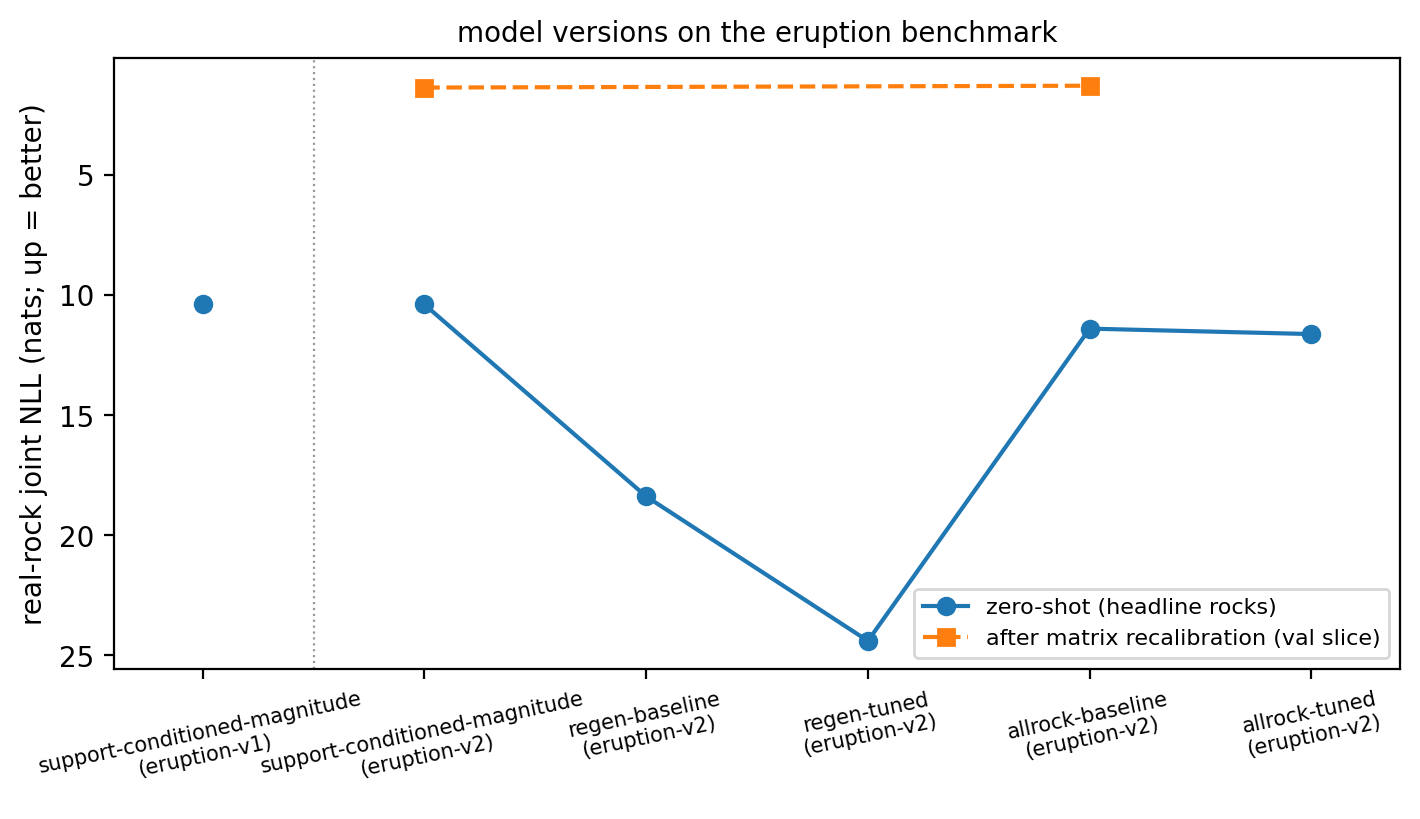
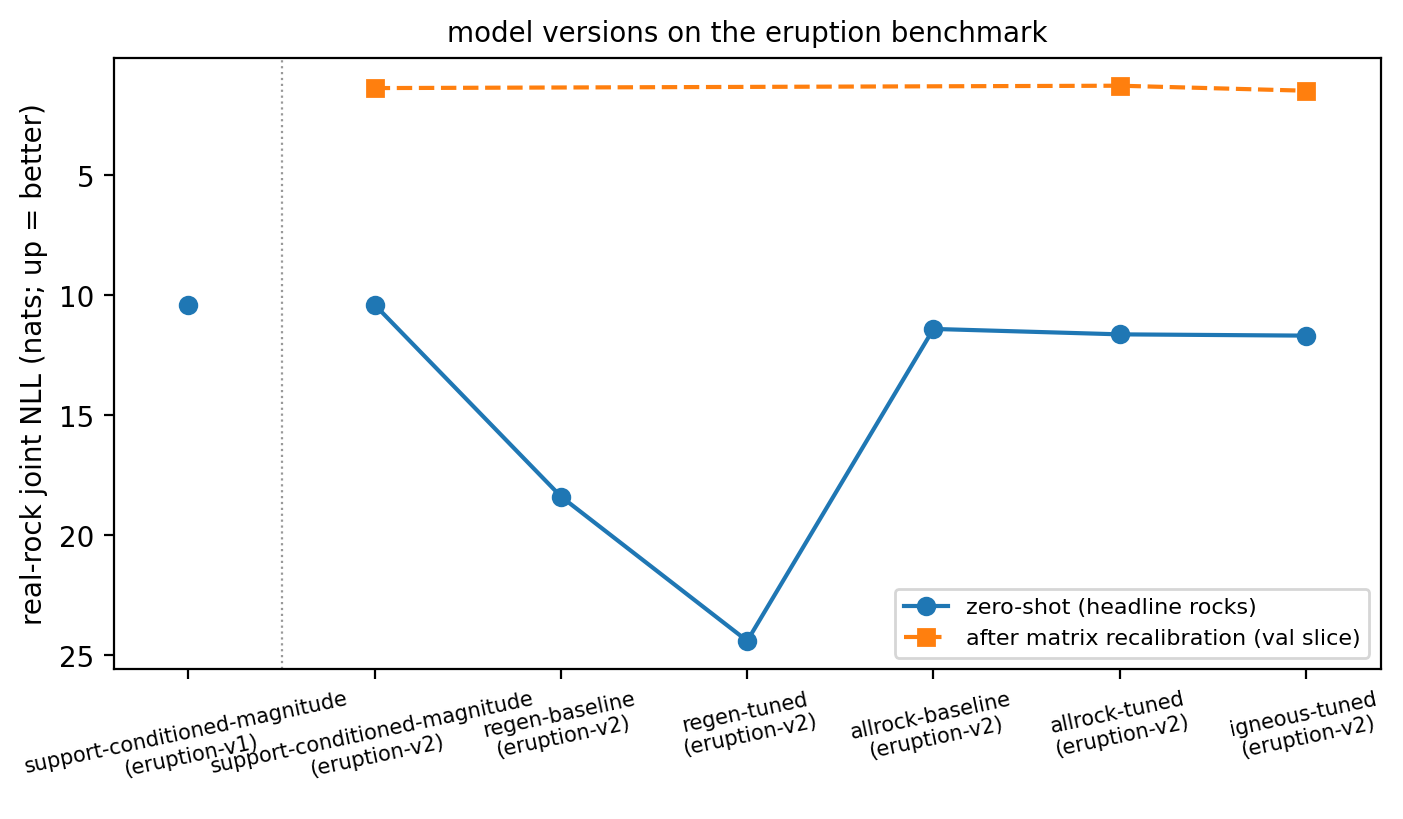
cascade-2 encoder verdict: tie leaning all-rock (-0.209 [-0.460, +0.090] recalibrated val) -- all-rock encoder adopted   canonical, joint_heads_allrock_tuned_seed0 PROMOTED TO PRODUCTION; igneous-tuned shipped as measured non-production arm (ledger entries   valtest128-broad + eruption-v2, trajector

diff --git a/docs/roadmap.md b/docs/roadmap.md
@@ -33,10 +33,12 @@ masked MSE** (ADR 007, adopted 2026-06-18); it measures higher on
 every probe and the trace-imputation gate than the original
 linear-space MSE, which is retired to reference.  Two encoder
 generations exist: `pretrain_v3_logmse_std_seed0` (igneous-only,
-22-token -- the one under the production heads) and the canonical
-accepted encoder `pretrain_allrock_redox_seed0` (all-rock, 23-token
-with the Fe-redox ratio; accepted ride-as-is 2026-07-28, scored in
-`docs/scorecard.md`).  Cascade 2 trains heads on the new one.
+22-token -- the previous canonical) and the canonical encoder
+`pretrain_allrock_redox_seed0` (all-rock, 23-token with the Fe-redox
+ratio; accepted ride-as-is 2026-07-28, adopted as canonical 2026-08-05
+on the cascade-2 tuned-vs-tuned encoder verdict; scored in
+`docs/scorecard.md`).  The production heads sit on the canonical
+encoder.
 
 Probe results on the 20-epoch igneous encoder
 (`scripts/eval/probe_encoder.py`, library-default probe HPs; probe
@@ -120,10 +122,10 @@ fine-tune with all heads end-to-end at a low encoder LR
 ablation against the Track-B frozen-encoder version. Ship whichever
 calibrates better.
 
-## Current status and next steps (2026-08-04)
+## Current status and next steps (2026-08-05)
 
 Full decision record in `docs/2026_08_03_recap.md`; journal entries
-2026-07-31 through 2026-08-04 hold the measurements.
+2026-07-31 through 2026-08-05 hold the measurements.
 
 **Cascade 1 (heads on the traced corpus) is complete and adjudicated
 against.** Both regen checkpoints (`joint_heads_regen_seed0`,
@@ -131,9 +133,11 @@ against.** Both regen checkpoints (`joint_heads_regen_seed0`,
 the old-corpus production model on the real-rock benchmark under
 identical recalibration (sealed test joint NLL 0.478 / 0.769 / 1.371;
 all pairwise unit-clustered contrasts exclude zero; few-shot curves
-show no crossover at any labelled budget). **Production remains
-`joint_heads_supportmag_seed0`**; the 2026-07-29 trial-22 adoption is
-reversed, and the regen checkpoints are measured non-production arms.
+show no crossover at any labelled budget). Production stayed
+`joint_heads_supportmag_seed0` through the cascades (the 2026-07-29
+trial-22 adoption is reversed; the regen checkpoints are measured
+non-production arms) until the cascade-2 verdict promoted
+`joint_heads_allrock_tuned_seed0` on 2026-08-05 (step 1 below).
 The traced corpus's real wins (quartz presence, assemblage ranking)
 and the sharpening lesson are the paper story, not a production
 upgrade. The real-rock **test slice is spent**; recalibrator work
@@ -142,18 +146,24 @@ landed and was accepted 2026-07-28 (`pretrain_allrock_redox_seed0`).
 
 Next, one change at a time, each judged on the real-rock benchmark:
 
-1. **Cascade 2 -- encoder swap on the old corpus.** All-rock arm
-   complete (journal 2026-08-03/04): the baseline at production dials
-   tied production on recalibrated val, and the corrected-criterion
-   sweep winner (`joint_heads_allrock_tuned_seed0`, effective lambda
-   0.59, ModeHead 512x3, picked by the sampled-support veto's first
-   live exercise) posted the best corpus numbers on both axes and
-   again ties on recalibrated val with the best point estimate -- no
-   measured transfer cost, win unproven at val power. The matched
-   igneous-encoder sweep (`joint_heads_igneous_hpo`) is running; its
-   winner retrains at 120 epochs and the paired val contrast renders
-   the encoder verdict at tuned best. The #53 fresh-head control
-   still decomposes encoder-vs-head contribution when scheduled.
+1. **Cascade 2 -- encoder swap on the old corpus. COMPLETE, verdict
+   rendered 2026-08-05.** All-rock arm (journal 2026-08-03/04): the
+   baseline at production dials tied production on recalibrated val,
+   and the corrected-criterion sweep winner
+   (`joint_heads_allrock_tuned_seed0`, effective lambda 0.59, ModeHead
+   512x3) posted the best corpus numbers on both axes and tied with
+   the best point estimate. The matched igneous sweep independently
+   picked near-identical dials (trial 43 -- effective lambda 0.609,
+   512x3); its 120-epoch retrain (`joint_heads_igneous_tuned_seed0`)
+   trails on both corpus axes and the paired recalibrated val contrast
+   leans all-rock without separating (-0.209 [-0.460, +0.090]). Per
+   the pre-registered rule the tie licenses adoption on independent
+   merits: **the all-rock encoder is canonical and
+   `joint_heads_allrock_tuned_seed0` is production** (journal
+   2026-08-05). #54 closed -- comp/cond mini-sweeps waived, superseded
+   by planned re-tunes that re-open the full search. The #53
+   fresh-head control still decomposes encoder-vs-head contribution
+   when scheduled.
 2. **ModeHead dirichlet layer (mixture)** -- VERDICT RENDERED 2026-08-04
    (journal, two entries): kept as a dial, K=1 stays the default.
    Trained K=2 wins the corpus on both axes and collapses the amp
@@ -170,8 +180,11 @@ Next, one change at a time, each judged on the real-rock benchmark:
    reality: SiO2 magnitude-side term and constant offsets needed
    regardless; heavy-tail extension un-mooted by the mixture verdict;
    gate-offset term only if K>1 is ever fielded.
-4. **#60 real-rock-axis corpus scaling** after cascade 2 -- decides
-   whether a larger broad-draw regen is generated.
+4. **#60 real-rock-axis corpus scaling** (now unblocked) -- decides
+   whether a larger broad-draw regen is generated. Prioritized over
+   #55 encoder re-HPO for the NeurIPS window: the corpus axis owns
+   every large measured real-rock effect, and the venue is the
+   simulator side; #55 stays open, parked past the deadline.
 5. **Paper progression**: the real-rock benchmark is the cross-era
    spine, plus a one-time table re-scoring archived era checkpoints
    on the final valtest instrument. Era production checkpoints

diff --git a/docs/journal.md b/docs/journal.md
@@ -5488,3 +5488,60 @@ offset term is a known cheap addition only if K>1 is ever fielded), then
 backing exhibit at explorations/archive/mode_mixture/ (born-archived: the
 question is settled here); the bimodality analysis doubles as #62's
 candidate-benchmark screening test, reusable for any phase.
+
+## 2026-08-05 -- Cascade-2 igneous arm complete: encoder verdict ties leaning all-rock; all-rock encoder canonical, allrock-tuned promoted to production
+
+**Q.** At tuned best on both encoders, does the old igneous encoder hold
+a real-rock edge that should block all-rock adoption?
+
+**Context.** The igneous twin sweep (`joint_heads_igneous_hpo`, matched
+budget/seed/criterion) resumed after the mixture pause and completed its
+48-trial ceiling on natural termination (~20 min/trial). The corrected
+criterion repeated its all-rock-arm behavior: TPE explored the
+lambda <= 1 interior, the 0.03 band held 12 trials, and the
+sampled-support band-veto dropped 11 -- including the raw Optuna best
+(mode -7.2480, sampled-support -0.862) and the runner-up by 0.007 --
+leaving trial 43 (effective lambda 0.609, ModeHead 512x3, dropout 0.36,
+sampled-support -1.820, the band's best on the veto axis; lambda_balance
+soft-railed at ~0.002, the balance-off finding again). Production-dials
+trial 0, the sole tie-set member at the 14-trial pause, finished rank 23
+of 48. The two arms' winners converged on near-identical dials (0.59 vs
+0.609, both 512x3), strengthening the matched-treatment claim. Retrained
+120 epochs as `joint_heads_igneous_tuned_seed0`: mode best replicated
+the sweep exactly (-7.2343 at epoch 18); comp/cond kept improving to
+epochs 117/114, so the run reached the cap rather than early-stopping.
+
+**Result.** Corpus (valtest128-broad, val 218): trails allrock-tuned on
+both axes (teacher-forced joint -2.5547 vs -2.6713, sampled-support
+-1.8200 vs -1.9620). Zero-shot (eruption-v2, 640): 11.691 vs 11.638 --
+near-identical. Under identical matrix recalibration (368-rock train
+roster; val 111 rocks / 39 units): adapted joint 1.486 vs 1.277
+allrock-tuned / 1.376 production; allrock-tuned minus igneous-tuned
+-0.209 [-0.460, +0.090], a statistical tie leaning all-rock; supportmag
+minus igneous-tuned -0.110 [-0.425, +0.129], so on the old encoder the
+corrected-criterion dials tie production with the point lean negative --
+the sweep's corpus gain bought no real-rock transfer (the corpus/real
+divergence again, now with tuning treatment matched across encoders).
+Every axis ties or leans all-rock; none leans igneous.
+
+**Decision (owner).** The pre-registered rule fires -- a tie licenses
+adoption on independent merits (redox recovers the qap probe, effective
+rank 49 vs 32, ~788k-row SSL corpus): `pretrain_allrock_redox_seed0` is
+the canonical encoder and `joint_heads_allrock_tuned_seed0` is promoted
+to production (ledger prose amended per the regen-tuned precedent;
+per-model results/ figures generated at promotion). #54 closes -- the
+comp/cond mini-sweeps are waived as superseded: the planned re-tunes
+re-open the full search space anyway. NeurIPS-window strategy (deadline
+2026-08-29): freeze this stack and write; run #60 corpus scaling as the
+background priority (D over C -- the corpus axis owns every large
+measured real-rock effect, and Sim2Science is a simulator-side venue);
+#55 encoder re-HPO stays open, parked past the deadline; no fixed
+swap-cutoff date, the owner owns any late-swap decision. Work branches
+into two sessions: one on #60, one on paper analysis (recalibrator
+upgrades first, then the few-shot curve re-run on production, then the
+padded-calibration eval, which gates the implicit-marginalization
+claim).
+
+**Next.** Ship-flow figures for the promoted model; deck refresh rides
+the paper-analysis session; the recalibrator design conversation opens
+that session.

diff --git a/docs/encoder.md b/docs/encoder.md
@@ -137,9 +137,12 @@ Three corpora, all generated upstream of the model:
    The igneous 22-token generation filtered to ~167k bulks (igneous, all 9
    majors reported including both FeO and Fe2O3, non-null `qap_name` in a
    class of >=25; see `bulk_chemistry.py` for the walk) and pretrained
-   `pretrain_v3_logmse_std_seed0` -- the encoder still under the production
-   heads. The all-rock 23-token generation (LANDED 2026-07-28,
-   `pretrain_allrock_redox_seed0`, the canonical accepted encoder) relaxes
+   `pretrain_v3_logmse_std_seed0` -- the previous canonical encoder,
+   superseded by the cascade-2 encoder verdict (2026-08-05). The all-rock
+   23-token generation (LANDED 2026-07-28, `pretrain_allrock_redox_seed0`)
+   is the canonical encoder and the one under the production heads: the
+   tuned-vs-tuned contrast against the igneous encoder was a statistical
+   tie leaning all-rock, so adoption rides its independent merits. It relaxes
    to the Fe fallback chain, drops the igneous filter (~788k rows, all rock
    types), and adds the optional Fe-redox ratio input token, fed where
    measured and padded elsewhere -- strict Fe pairs matter for MAGEMin
@@ -149,8 +152,8 @@ Three corpora, all generated upstream of the model:
 2. **Supervised corpus**: gard2019 bulks with MAGEMin FC labels, chunked
    parquet under `data/corpus/`. Two measured generations. The old
    broad-draw corpus -- the one the PRODUCTION heads
-   (`joint_heads_supportmag_seed0`) were trained on, and the one cascade 2
-   trains on: 10,000 train bulks × 48 draws + 500 valtest bulks × 128
+   (`joint_heads_allrock_tuned_seed0`) were trained on, and the one cascade 2
+   trained on: 10,000 train bulks × 48 draws + 500 valtest bulks × 128
    draws, rungs 50/30, committed roster 221 val / 278 test. The traced
    regen (`data/corpus/train_traced`, 2026-07-27): 35k train bulks × 24
    trace-conditional draws + 2000 valtest × 128 on the frozen 887/1112

diff --git a/docs/scorecard.md b/docs/scorecard.md
@@ -30,7 +30,11 @@ all-rock corpus filters) with the redox token padded -- the deployment
 regime, and the condition the previous canonical encoder can be compared
 under. Values in parentheses marked "prev" are the previous canonical
 encoder `pretrain_v3_logmse_std_seed0` re-scored on the same rows (its
-recorded own-split values are close but not identical). The standing
+recorded own-split values are close but not identical). The canonical
+designation was confirmed downstream 2026-08-05: cascade 2's
+tuned-vs-tuned heads contrast on recalibrated real-rock val tied
+leaning all-rock, and the production heads
+(`joint_heads_allrock_tuned_seed0`) now sit on this encoder. The standing
 trigger: every new canonical encoder (the #15 pretext cascade -- re-probe,
 re-tune head, re-confirm ADR 007) **re-scores on these axes in the same
 pass**. When an axis stabilizes into a criterion worth fixing, it
